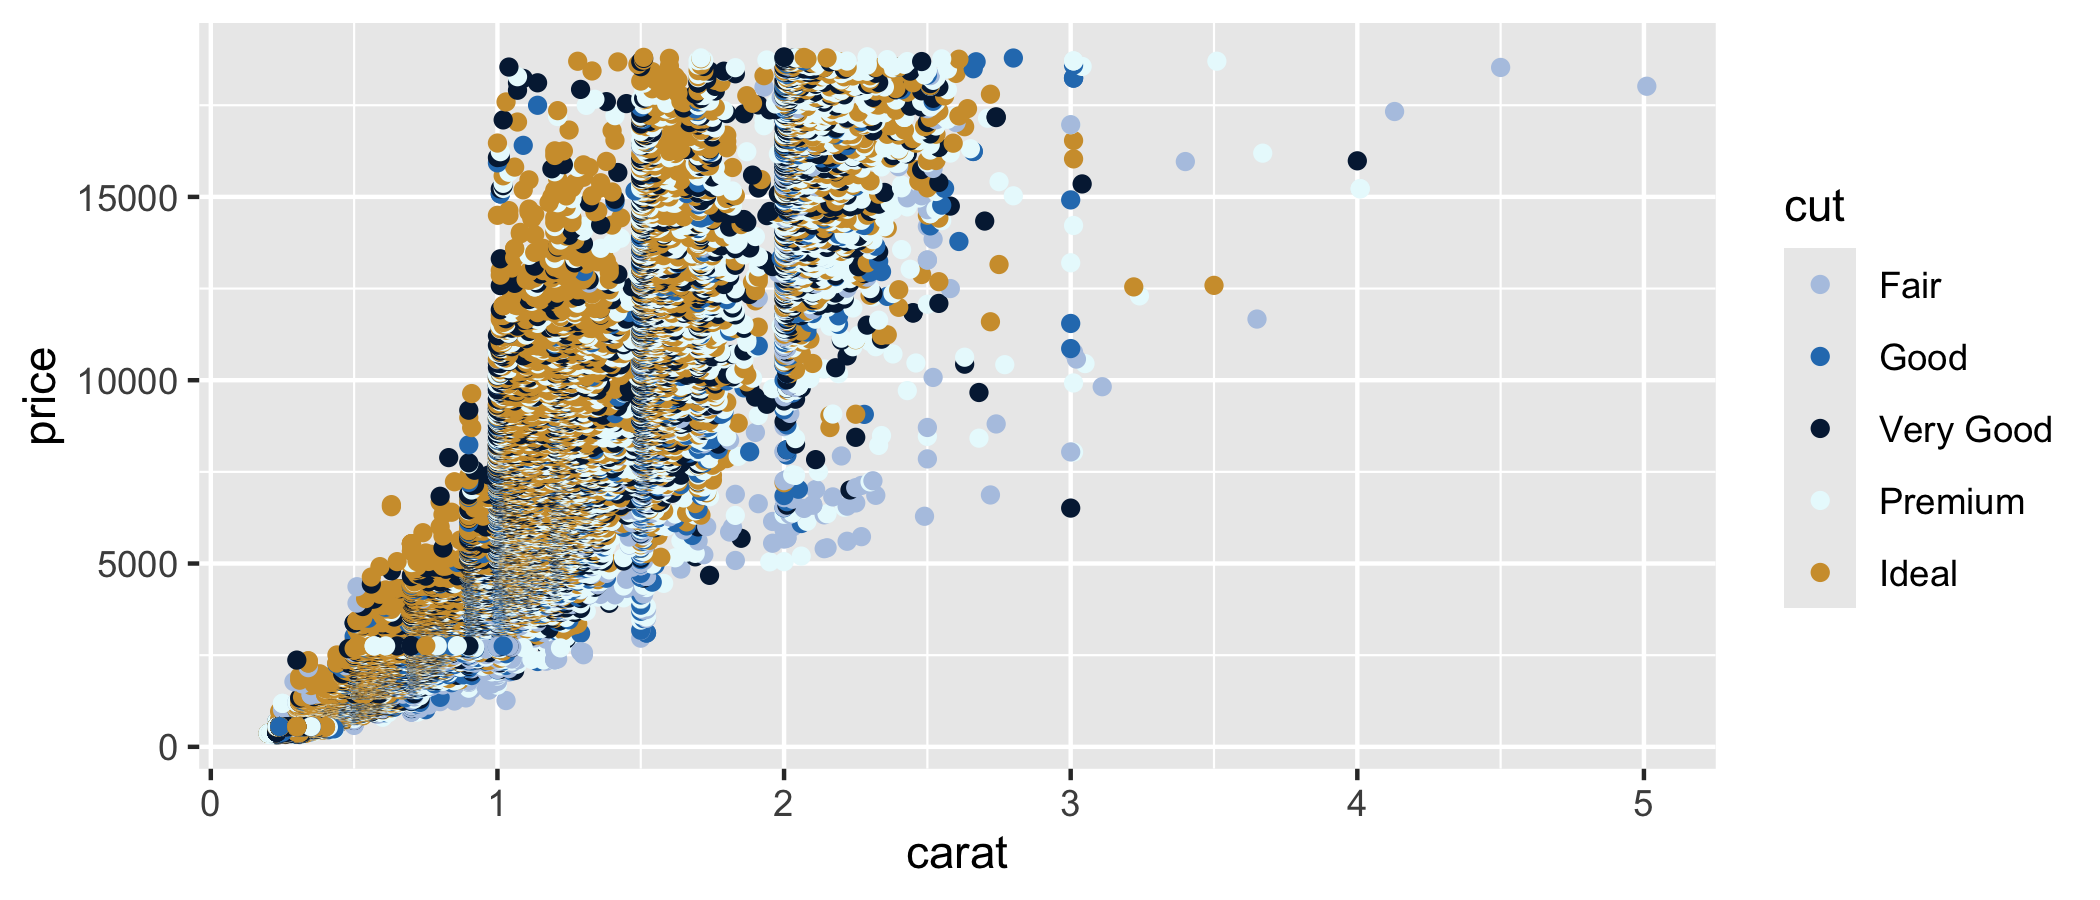
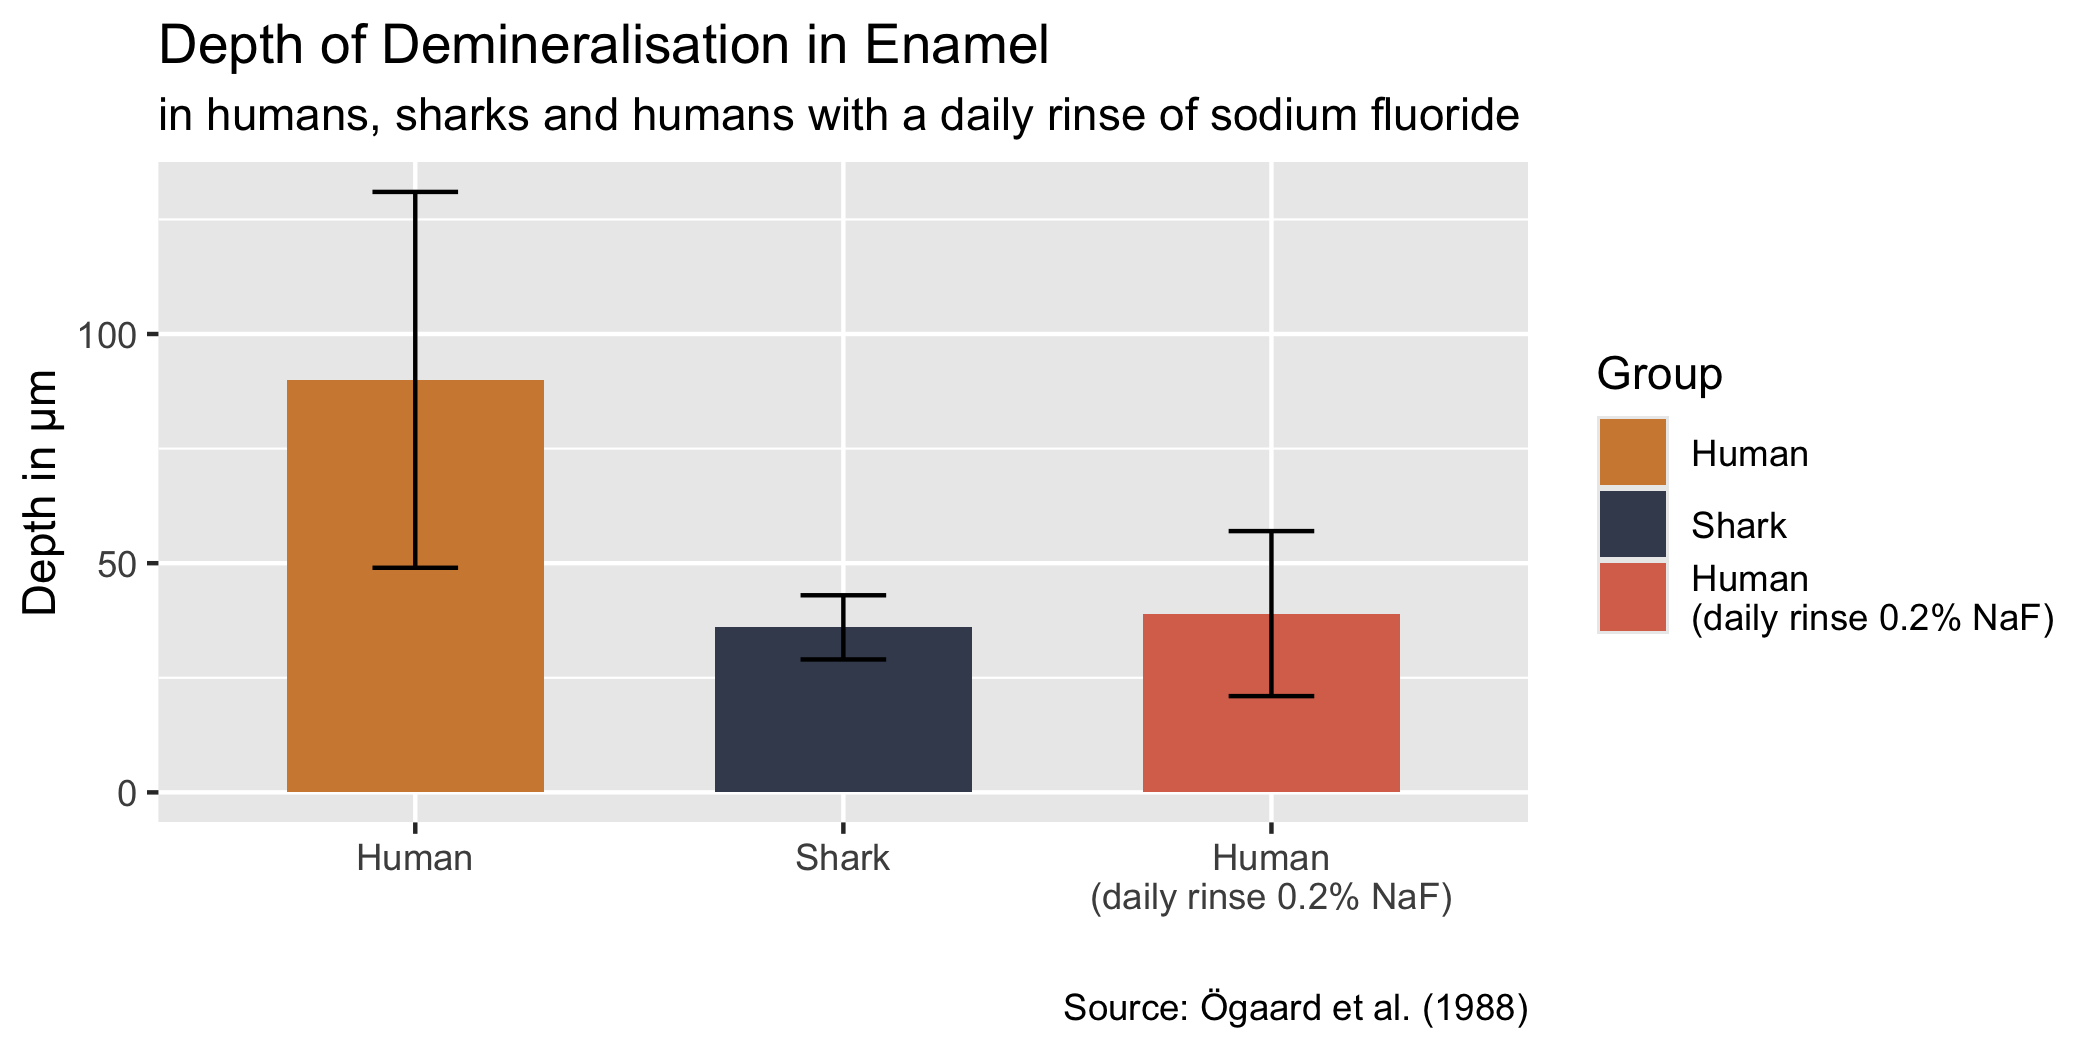
Add `enamel` dataset and use it in README example code

diff --git a/README.md b/README.md
@@ -57,12 +57,58 @@ persian_palette(names(persian_palettes)[1])
 ``` r
 library(ggplot2)
 
-ggplot(diamonds, aes(carat, price, color = cut)) +
-  geom_point() +
-  scale_color_persian_d("fery")
+ggplot(data = enamel) +
+  aes(
+    x = group,
+    y = ld_mean,
+    fill = group
+  ) +
+  geom_col(
+    width = 0.6
+  ) +
+  geom_errorbar(
+    aes(ymin = ld_mean - ld_sd, ymax = ld_mean + ld_sd),
+    width = 0.2
+  ) +
+  labs(
+    title = "Depth of Demineralisation in Enamel",
+    subtitle = "in humans, sharks and humans with a daily rinse of sodium fluoride",
+    caption = "Source: Ögaard et al. (1988)",
+    x = "",
+    y = "Depth in μm",
+    fill = "Group"
+  ) +
+  scale_fill_persian("leyli")
 ```
 
 <img src="man/figures/README/fig-unnamed-chunk-2-1.png" width="100%" />
+
+``` r
+ggplot(data = enamel) +
+  aes(
+    x = group,
+    y = z_mean,
+    fill = group
+  ) +
+  geom_col(color = "black") +
+  geom_errorbar(
+    aes(ymin = z_mean - z_sd, ymax = z_mean + z_sd),
+    width = 0.2
+  ) +
+  labs(
+    title = "Mineral Loss in Enamel",
+    subtitle = "in humans, sharks and humans with a daily rinse of sodium fluoride",
+    caption = "Source: Ögaard et al. (1988)",
+    x = "",
+    y = "Mineral Loss (Z) in Vol % μm",
+    fill = "Group"
+  ) +
+  coord_flip() +
+  theme_minimal() +
+  scale_fill_persian("hamburg", direction = -1)
+```
+
+<img src="man/figures/README/fig-unnamed-chunk-3-1.png" width="100%" />
 
 We also include a list of colorblind-safe palettes by checking for
 thresholds with the package `colorblindcheck`. You can read more about
